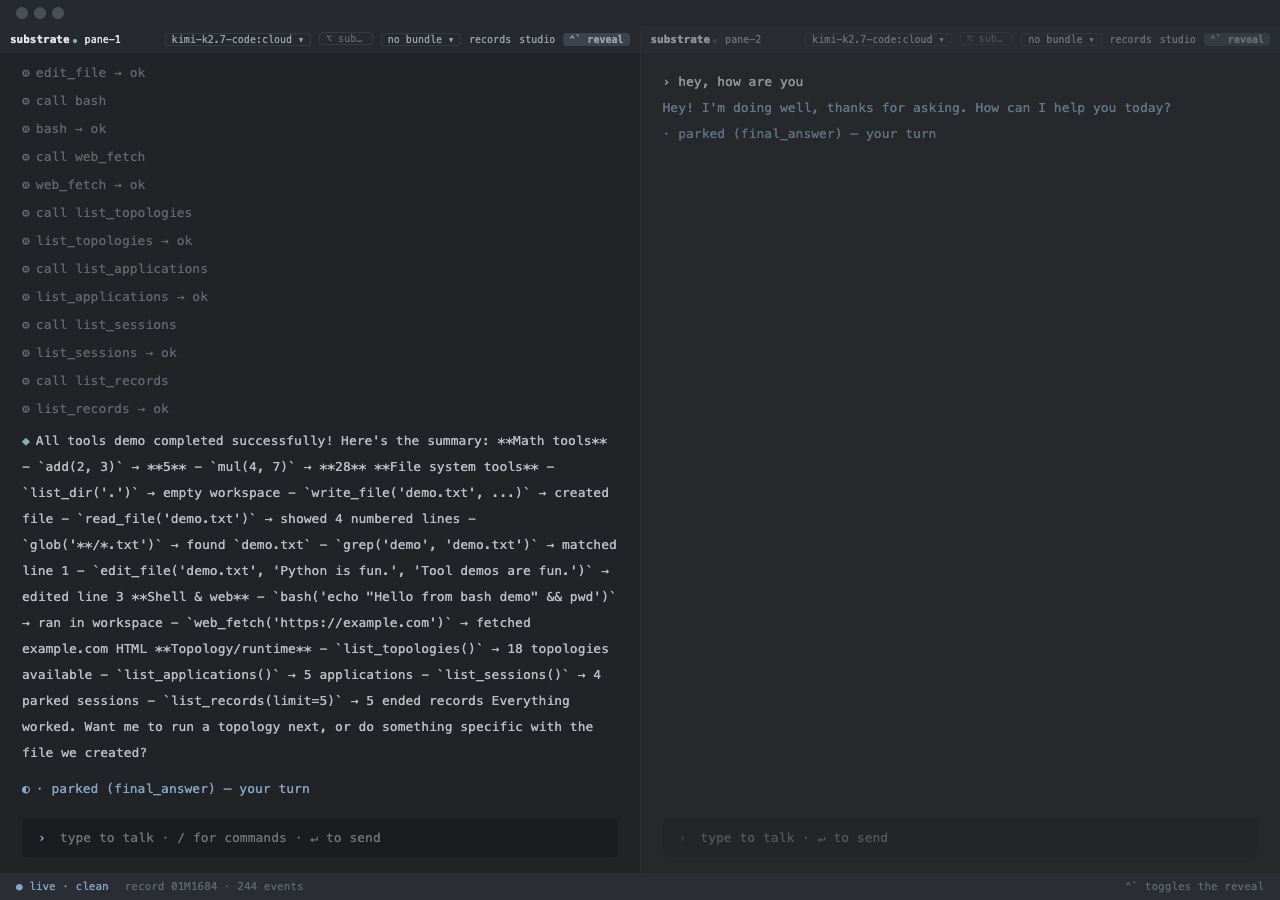
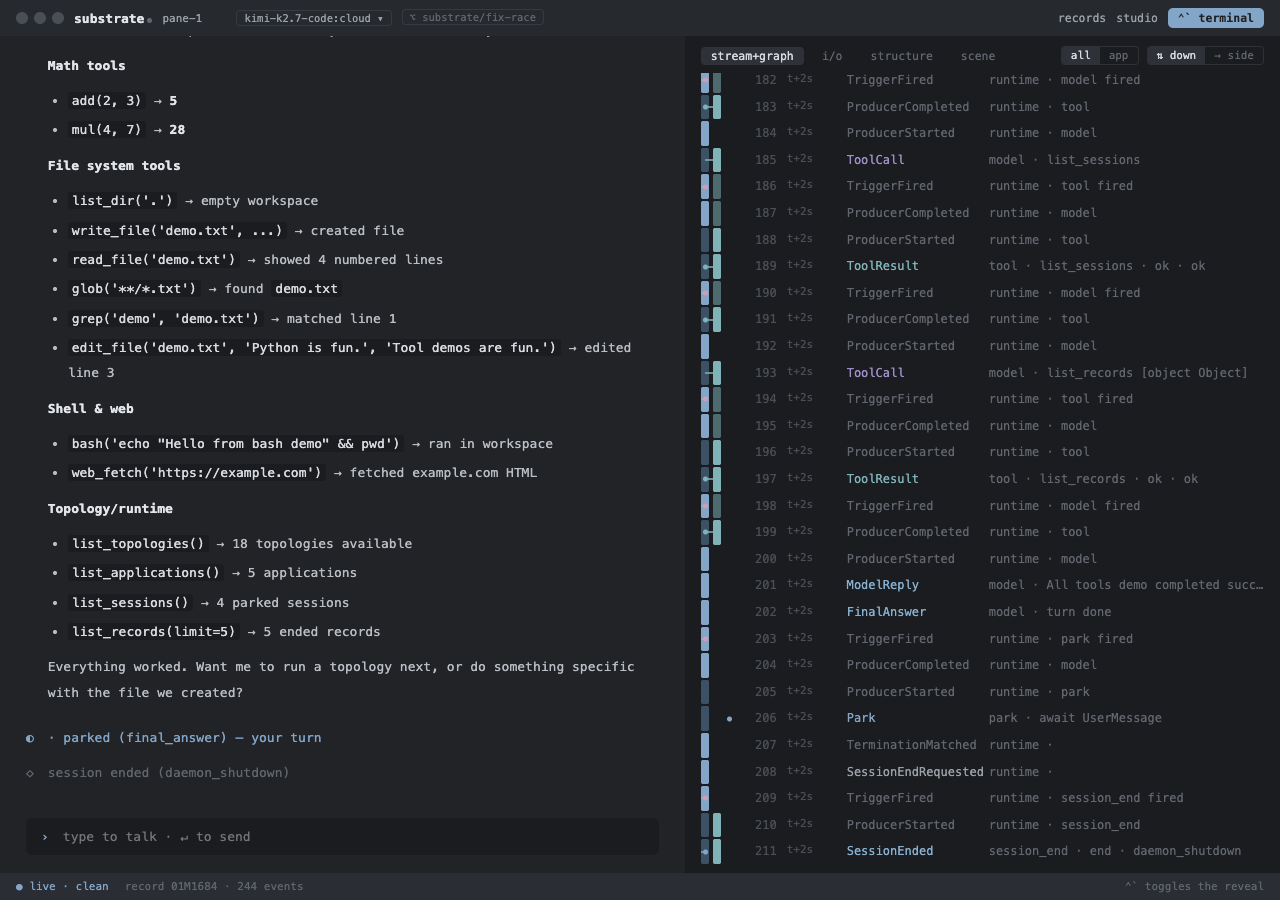
reveal view transcript reads the rich rows from _liveBindingsFor. Two views, one renderer. The reveal-view template block was reading the top-level liveTranscript at line 2029 (_liveTranscriptRows) — the old flat shape without isModel, isTool, blocks, opacity. My earlier rich template copy over line

diff --git a/web/reveal.html b/web/reveal.html
@@ -245,8 +245,48 @@
      <sc-if value="{{ liveOn }}" hint-placeholder-val="{{ true }}">
       <div style="color:#62676f;font-size:11px;padding-bottom:8px">session {{ liveSessionLabel }} · {{ liveEventCount }} events · {{ liveConnection }}</div>
       <sc-for list="{{ liveTranscript }}" as="row" hint-placeholder-count="0">
-       <div style="margin-top:{{ row.marginTop }};color:{{ row.textColor }};white-space:normal;max-width:840px;opacity:{{ row.opacity }}">
-        <span style="color:{{ row.glyphColor }};margin-right:6px">{{ row.glyph }}</span>{{ row.text }}
+       <div style="margin-top:{{ row.marginTop }};color:{{ row.textColor }};white-space:normal;max-width:840px;overflow-wrap:anywhere;opacity:{{ row.opacity }}">
+        <span style="color:{{ row.glyphColor }};margin-right:6px;vertical-align:top">{{ row.glyph }}</span>
+        <sc-if value="{{ row.isModel }}" hint-placeholder-val="{{ false }}">
+         <span style="display:inline-block;vertical-align:top;max-width:calc(100% - 24px)">
+          <sc-for list="{{ row.blocks }}" as="blk" hint-placeholder-count="1">
+           <sc-if value="{{ blk.isP }}" hint-placeholder-val="{{ true }}"><div style="margin:0 0 10px">
+            <sc-for list="{{ blk.inlines }}" as="ii" hint-placeholder-count="1"><span style="font-family:{{ ii.font }};background:{{ ii.bg }};color:{{ ii.color }};font-weight:{{ ii.fw }};font-style:{{ ii.fs }};padding:{{ ii.pad }};border-radius:{{ ii.br }}">{{ ii.t }}</span></sc-for>
+           </div></sc-if>
+           <sc-if value="{{ blk.isCode }}" hint-placeholder-val="{{ false }}"><div style="margin:0 0 12px;background:#1a1c20;border-radius:6px;padding:10px 14px;font-family:ui-monospace,'SF Mono',Menlo,monospace;font-size:12px;color:#b9bec5;white-space:pre-wrap;overflow-x:auto">
+            <sc-if value="{{ blk.hasLang }}" hint-placeholder-val="{{ false }}"><div style="color:#62676f;font-size:10px;text-transform:lowercase;margin-bottom:6px">{{ blk.lang }}</div></sc-if>
+            <div>{{ blk.text }}</div>
+           </div></sc-if>
+           <sc-if value="{{ blk.isUl }}" hint-placeholder-val="{{ false }}"><ul style="margin:0 0 10px;padding-left:20px">
+            <sc-for list="{{ blk.items }}" as="it" hint-placeholder-count="1"><li style="margin:0 0 4px"><sc-for list="{{ it.inlines }}" as="ii" hint-placeholder-count="1"><span style="font-family:{{ ii.font }};background:{{ ii.bg }};color:{{ ii.color }};font-weight:{{ ii.fw }};font-style:{{ ii.fs }};padding:{{ ii.pad }};border-radius:{{ ii.br }}">{{ ii.t }}</span></sc-for></li></sc-for>
+           </ul></sc-if>
+           <sc-if value="{{ blk.isOl }}" hint-placeholder-val="{{ false }}"><ol style="margin:0 0 10px;padding-left:22px">
+            <sc-for list="{{ blk.items }}" as="it" hint-placeholder-count="1"><li style="margin:0 0 4px"><sc-for list="{{ it.inlines }}" as="ii" hint-placeholder-count="1"><span style="font-family:{{ ii.font }};background:{{ ii.bg }};color:{{ ii.color }};font-weight:{{ ii.fw }};font-style:{{ ii.fs }};padding:{{ ii.pad }};border-radius:{{ ii.br }}">{{ ii.t }}</span></sc-for></li></sc-for>
+           </ol></sc-if>
+           <sc-if value="{{ blk.isH }}" hint-placeholder-val="{{ false }}"><div style="font-size:{{ blk.hSize }};font-weight:600;color:#e2e5e9;margin:16px 0 6px">
+            <sc-for list="{{ blk.inlines }}" as="ii" hint-placeholder-count="1"><span style="font-family:{{ ii.font }};background:{{ ii.bg }};color:{{ ii.color }};font-weight:{{ ii.fw }};font-style:{{ ii.fs }};padding:{{ ii.pad }};border-radius:{{ ii.br }}">{{ ii.t }}</span></sc-for>
+           </div></sc-if>
+          </sc-for>
+         </span>
+        </sc-if>
+        <sc-if value="{{ row.isTool }}" hint-placeholder-val="{{ false }}">
+         <span style="cursor:pointer;display:inline-block;max-width:calc(100% - 24px);vertical-align:top" onClick="{{ row.openCard }}"><span style="color:#9aa0a8;font-family:ui-monospace,'SF Mono',Menlo,monospace">{{ row.toolName }}</span> <span style="color:#b9bec5;font-family:ui-monospace,'SF Mono',Menlo,monospace">{{ row.toolPreview }}</span> <span style="color:#4a4e55"> · </span><span style="color:{{ row.toolStatusColor }};font-family:ui-monospace,'SF Mono',Menlo,monospace">{{ row.toolStatus }}</span> <span style="color:#4a4e55;margin-left:8px">{{ row.cardCaret }}</span></span>
+         <sc-if value="{{ row.toolCardOpen }}" hint-placeholder-val="{{ false }}">
+          <div style="margin:6px 0 8px 24px;background:#26292e;border-radius:0 0 6px 6px;padding:10px 14px;font-family:ui-monospace,'SF Mono',Menlo,monospace;font-size:11px;line-height:1.7;color:#b9bec5">
+           <div style="color:#62676f">args</div>
+           <sc-for list="{{ row.toolArgs }}" as="a" hint-placeholder-count="1"><div style="color:#b9bec5">{{ a.i }} <span style="color:#e2e5e9">{{ a.v }}</span></div></sc-for>
+           <sc-if value="{{ row.hasResult }}" hint-placeholder-val="{{ true }}">
+            <div style="margin-top:8px;color:#62676f">output</div>
+            <div style="background:#1a1c20;border-radius:5px;padding:8px 12px;max-height:220px;overflow:auto;color:#9aa0a8;white-space:pre-wrap">{{ row.toolOutput }}</div>
+           </sc-if>
+           <sc-if value="{{ row.hasError }}" hint-placeholder-val="{{ false }}">
+            <div style="margin-top:6px;color:#c26058">error {{ row.toolError }}</div>
+           </sc-if>
+           <div style="color:#4a4e55;margin-top:6px">call_id {{ row.toolCallId }} · step {{ row.toolStep }} · {{ row.toolStatus }} · {{ row.toolBytes }}</div>
+          </div>
+         </sc-if>
+        </sc-if>
+        <sc-if value="{{ row.notTool }}" hint-placeholder-val="{{ true }}"><sc-if value="{{ row.notModel }}" hint-placeholder-val="{{ true }}"><span>{{ row.text }}</span></sc-if></sc-if>
        </div>
       </sc-for>
       <sc-if value="{{ liveEmpty }}" hint-placeholder-val="{{ true }}">
@@ -1984,14 +2024,11 @@ class Component extends DCLogic {
       topoEmpty: !(_vmSnap && _vmSnap.topologyGraph && _vmSnap.topologyGraph.producers && _vmSnap.topologyGraph.producers.length),
       assaysEmpty: arms.length === 0,
       assaysAny: arms.length > 0,
-      liveOn: true,
-      scriptedOn: false,
-      liveTranscript: _liveTranscriptRows,
-      liveEmpty: _hasVmSession && _liveTranscriptRows.length === 0,
-      liveSessionLabel: _vmSnap && _vmSnap.sessionName ? _vmSnap.sessionName
-        : (_vmSnap && _vmSnap.sessionId ? _vmSnap.sessionId.slice(0, 12) : ''),
-      liveEventCount: _liveTranscriptRows.length,
-      liveConnection: _vmSnap ? _vmSnap.connection : 'idle',
+      // Reveal view transcript reads the SAME rich rows the per-pane
+      // terminal view reads. _liveBindingsFor already computes tool
+      // cards, Markdown blocks, opacity from find, running seconds —
+      // reuse it here for the focused pane so both views stay in sync.
+      ...this._liveBindingsFor(fp.id, S),
       crumb: surf === 'records' ? fp.name + ' › records' : surf === 'assay' ? fp.name + ' › assays › rev_kimi_vs_glm' : surf === 'studio' ? fp.name + ' › studio' : descended ? fp.name + S.descent.map(k => ' › ⑂ ' + CH[k].name).join('') : fp.name,
       escHint: surf ? 'esc — back' : descended ? 'esc — up one level' : '',
       openRecords: () => this._toggleSurface('records'),
